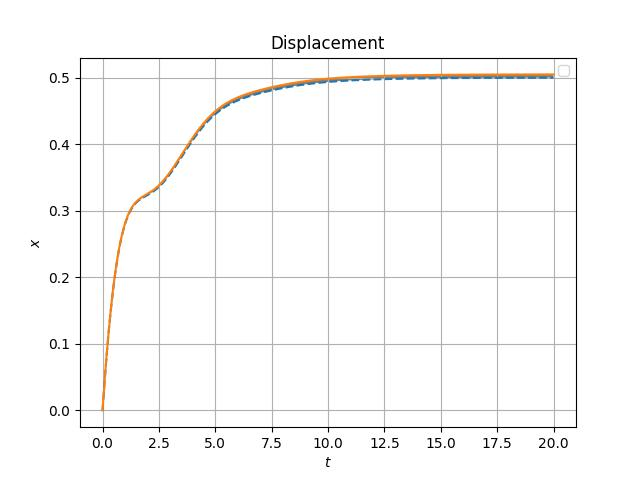
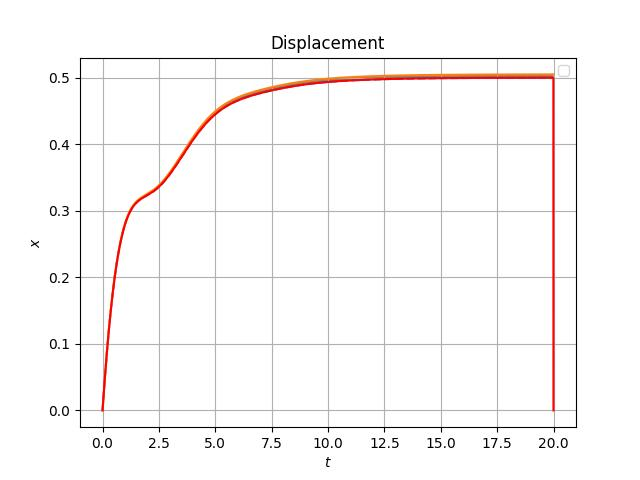
12.14

diff --git a/2.py b/2.py
@@ -1,0 +1,56 @@
+import numpy as np
+from scipy import integrate
+from matplotlib import pyplot as plt
+import sympy
+
+A=np.array([[0,1,0,0],[-1,-1,0,1],[0,0,0,1],[0,1,0,-1]])
+print(A)
+B=np.array([0,0,0,0.5])
+print(B)
+C=np.array([0,0,0,0]) #initial conditions
+
+
+
+
+
+
+t = np.linspace(0,0.1,10)
+
+#create 1000 uniformply distributed points in the interval [0,10T]
+force = lambda t:t<=0.1
+
+#f1=lambda X1,X2,t: [X1[1],-X1[0]-X1[1]+    X2[1]-0*force(t)]
+
+'''
+def f1(t,X1,X2):
+ Z=np.multiply(A,[X1[0],X1[1],X2[0],X2[1]])
+
+ return Z
+
+def f1(X1,X2):
+ dx1=X1[1]
+ dx2=-X1[0]-X1[1]+    X2[1]
+ return [dx1,dx2]
+
+def f2(t,X21,X1):
+ dx1=X21
+ dx2=+X1[1]+    -X21-0.5*force(t)
+ return [dx1,dx2]
+
+'''
+
+t = np.linspace(0, 10, 100)  
+#f2=lambda X1,X2,t: [X2[1],      +X1[1]+    -X2[1]-0.5*force(t)]
+
+
+
+f1=lambda X1,X21: [X1[1],-X1[0]-X1[1]+    X21]
+f2=lambda X1,X21,t: [X21,      +X1[1]+    -X21-0.5*force(t)]
+
+#X2 = np.linspace(0, 10, 100)  
+XOdeint = integrate.odeint(f1,[0,0],t)
+#X2Odeint = integrate.odeint(f2,[0,0], t,args=(XOdeint,))
+
+plt.plot(t, XOdeint[:, 0])  # y数组（矩阵）的第一列，（因为维度相同，plt.plot(x, y)效果相同）
+plt.grid()
+plt.show() 

diff --git a/modeling.py b/modeling.py
@@ -1,0 +1,40 @@
+import numpy as np
+from scipy import integrate
+from matplotlib import pyplot as plt
+    #sim data
+m=2 #mass of the oscillator
+b=0.2 #damper of the oscillator
+k=1 #stiffness of the oscillator
+omega = (k/m)**0.5 #angular frequency of the oscillator
+T=2#*np.pi/omega #period of the oscillator
+#create 1000 uniformply distributed points in the interval [0,10T]
+t = np.linspace(0,10*T,1000)
+#lambda returning the force
+force = lambda t:t<=0.1
+#lambda with the RHS of the equation, it evaluates the force and returns a list
+f = lambda X,t: [X[1],1/m*(force(t)-k*X[0]-b*X[1])]
+#solve equation using odeint, now the values of X for t=0 are given by a list
+XOdeint = integrate.odeint(f,[0,0],t)
+
+
+def Euler(f,y0,x):
+    h=x[1]-x[0]
+    y=np.zeros(len(x))
+    y[0]=0
+    for i in range(len(x)-1):
+        y[i+1]=y[i]+h*f(y[i],x[i])
+    return y
+
+X2Odeint= Euler(f,0,t)
+
+
+
+ti = np.linspace(0,10*T,1000)
+#plot displacements from both solutions (first column of each solution)
+plt.plot(t,X2Odeint[:,0])
+plt.legend(['Odeint'])
+plt.title('Displacement')
+plt.grid()
+plt.xlabel('$t$')
+plt.ylabel('$x$')
+plt.show()

diff --git a/eular.py b/eular.py
@@ -3,6 +3,10 @@ from scipy import integrate
 from matplotlib import pyplot as plt
 
 
+
+h=0.005 #step length
+
+
 def Euler(f1,f2,f3,f4,x): #function, step length
     h=x[1]-x[0]
     y=np.zeros(len(x))
@@ -38,7 +42,15 @@ def heun(f1,f2,f3,f4,x):
 
 
 
-h=0.005 #step length
+def ode(t,u):
+    z1,z2,z3,z4=u
+    dz1=z2
+    dz2=-z1-z2+z4
+    dz3=z4
+    dz4=-z2-z4+0.5
+    dzdt=[dz1,dz2,dz3,dz4]
+    return dzdt
+
 
 
 x=np.arange(0,20,h)
@@ -50,13 +62,21 @@ f4=lambda z2,z4,x:-z2-z4
 
 [z1,z2,z3,z4]= Euler(f1,f2,f3,f4,x)
 [w1,w2,w3,w4]= heun(f1,f2,f3,f4,x)
-yExact=x
+Exact = integrate.odeint(ode,[0,0,0,0],x,tfirst=True)
+
+
+exact=np.zeros(len(x))
+for i in range(len(x)-1):
+ exact[i]=Exact[i][3]
+ i+=1
+
 
 #plt.plot(x,yExact)
 plt.plot(x,z3,'--')
 plt.plot(x,w3)
 plt.fill_between(x, z3, w3, facecolor="gray")
-#plt.plot(x,z1)
+plt.plot(x,exact,'r-',label='Output (y(t))')
+#plt.plot(Exact)
 plt.legend(['Euler'],['Heun'])
 plt.title('Displacement')
 plt.grid()

diff --git a/1.py b/1.py
@@ -1,0 +1,43 @@
+import numpy as np
+from scipy import integrate
+from matplotlib import pyplot as plt
+import sympy
+
+A=np.array([[0,1,0,0],[-1,-1,0,1],[0,0,0,1],[0,1,0,-1]])
+#print(A)
+B=np.array([0,0,0,0.5])
+#print(B)
+C=np.array([0,0,0,0]) #initial conditions
+
+
+
+
+
+
+t = np.linspace(0,0.1,10)
+
+#create 1000 uniformply distributed points in the interval [0,10T]
+force = lambda t:t<=0.1
+
+#f=lambda X1,X2,t: [np.multiply(A,[X1[0],X1[1],X2[0],X2[1]])+np.multiply(B,force(t))]
+
+def f(t,X1,X2):
+ dx1=X1[1]
+ dx11=-X1[0]-X1[1]+    X2[1]
+ dx2=X2[1]
+ dx22=+X1[1]+    -X2[1]-0.5*force(t)
+ return [dx1,dx11,dx2,dx22]
+
+
+
+t = np.linspace(0, 10, 100)  
+
+
+
+XOdeint = integrate.odeint(f,[0,0,0,0],t,)
+#[XOdeint,X2Odeint] = integrate.odeint(f, C, t,args=(force(t),))
+X2Odeint = integrate.odeint(f, C, t)
+
+plt.plot(x, XOdeint[:, 0])  # y数组（矩阵）的第一列，（因为维度相同，plt.plot(x, y)效果相同）
+plt.grid()
+plt.show() 

diff --git a/zzh.py b/zzh.py
@@ -1,0 +1,47 @@
+import numpy as np
+from scipy import integrate
+from matplotlib import pyplot as plt 
+
+'''
+def f(t,u):
+    z1,z2,z3,z4=u
+    dz1=z2
+    dz2=-z1-z2+z4
+    dz3=z4
+    dz4=-z2-z4+0.5
+    dzdt=[dz1,dz2,dz3,dz4]
+    return dzdt
+'''
+
+A=np.array([[0,1,0,0],[-1,-1,0,1],[0,0,0,1],[0,1,0,-1]])
+#print(A)
+B=np.array([0,0,0,0.5])
+#print(B)
+C=np.array([0,0,0,0]) #initial conditions
+
+def f(t,u):
+    z1,z2,z3,z4=u
+    du=A*u+B
+    print(du)
+    return du
+
+
+
+t = np.linspace(0,10,100) 
+#solve equation using odeint, now the values of X for t=0 are given by a list
+XOdeint = integrate.odeint(f,C,t,tfirst=True)
+
+
+
+#plot velocities from both solutions (first column of each solution)
+plt.plot(t,XOdeint[:,3])
+plt.legend(['Odeint'])
+plt.title('Velocitie')
+plt.grid()
+plt.xlabel('$t$')
+plt.ylabel('$\dot{x}$')
+plt.show()
+
+#Save data
+#np.savetxt('t.txt',t)
+#np.savetxt('x.txt',XOdeint[:,0])
